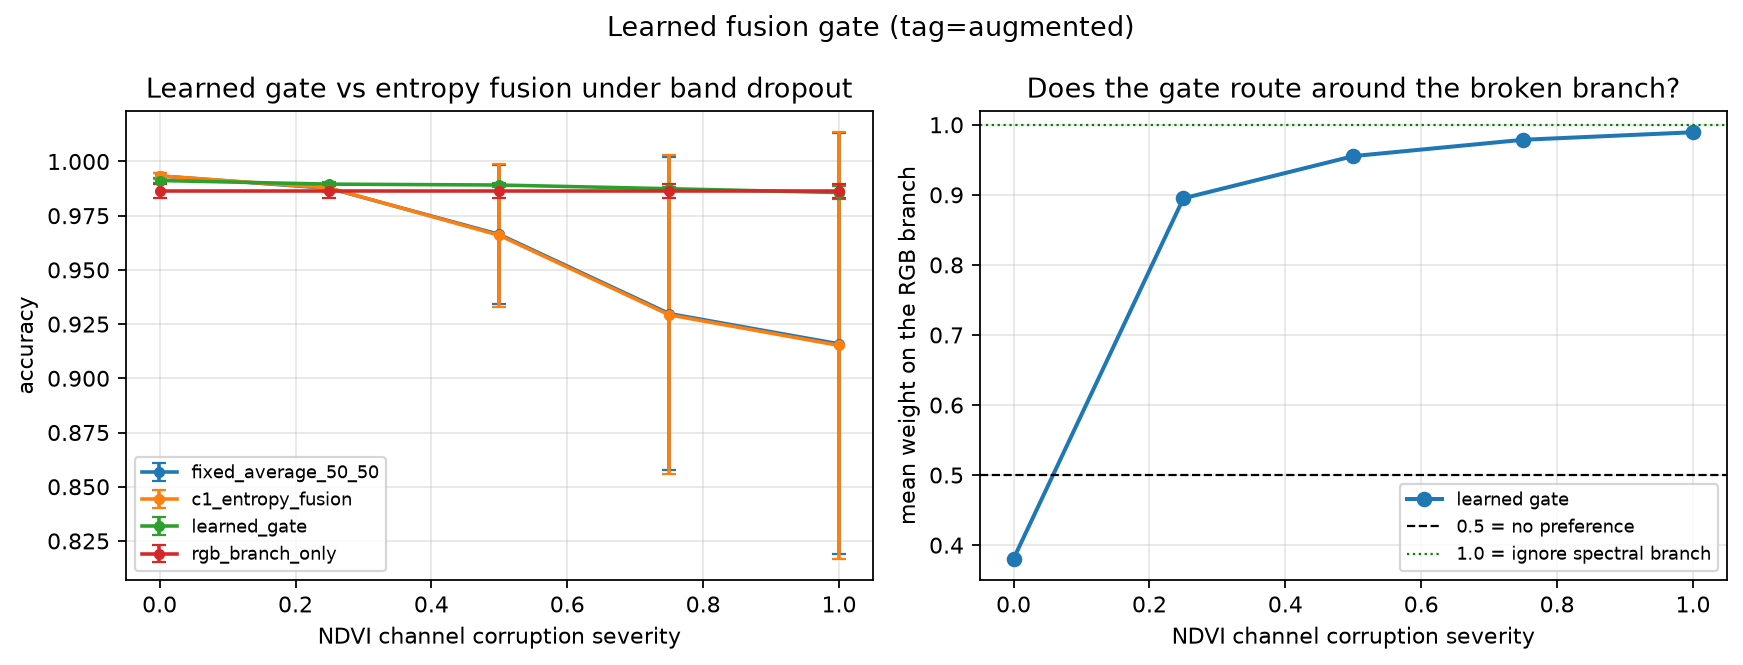
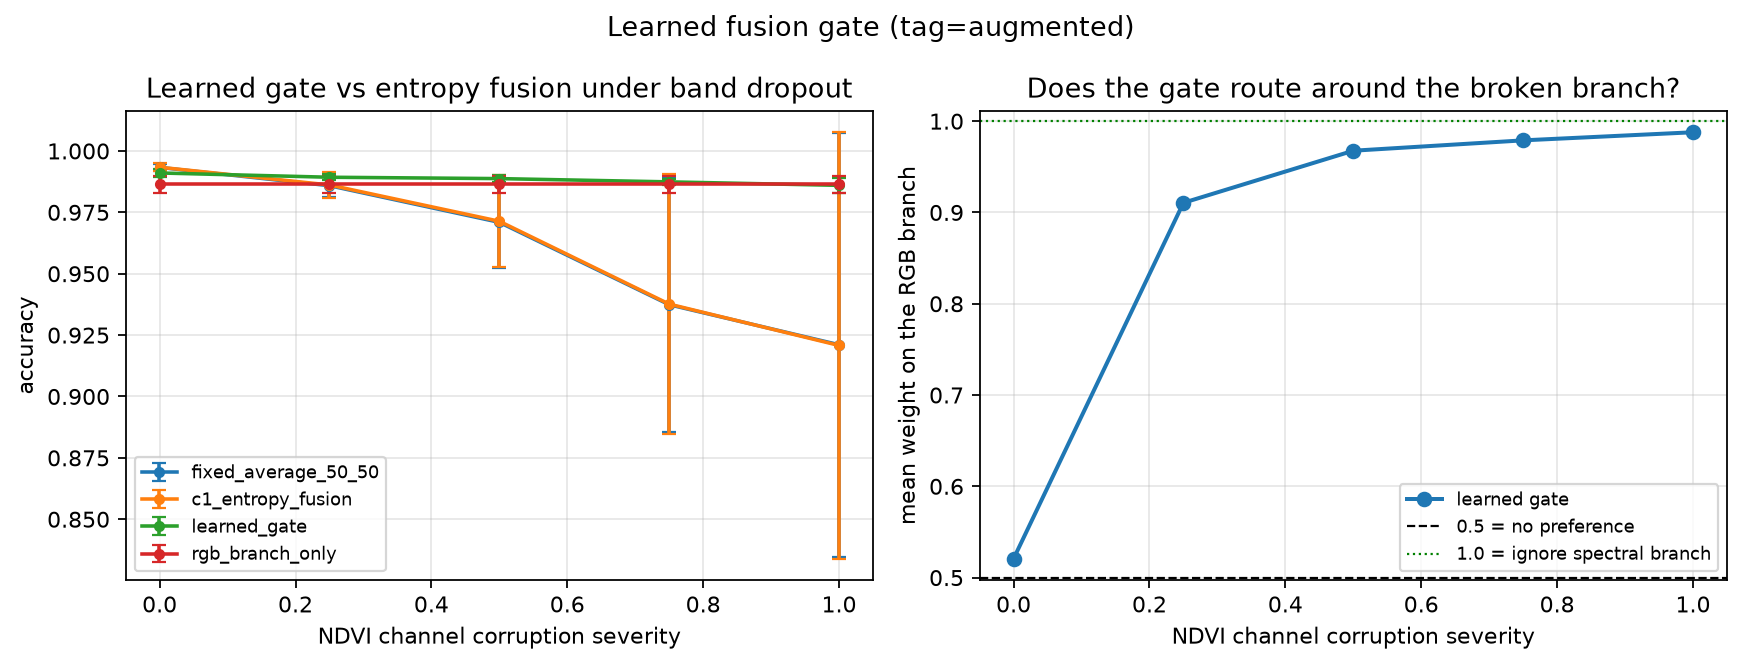
Fusion gate: dedicated held-out split, and fairer calibrated baselines
Two methodology fixes, both of which could have changed the result:

1. The gate now trains on 70% of validation and picks its stopping point on
   the held-out 30%. Previously it ran a fixed 300 epochs with no way to
   detect overfitting. Test performance moved by <=0.0003 at every severity,
   so it was not overfitting -- but the chosen epochs per fold were
   70/270/100/50/300, meaning the fixed schedule was over-training three of
   five folds.

2. Baselines are evaluated with their fitted temperatures, matching every
   other script. train_fusion_gate.py had been using raw logits for C1 while
   band_dropout.py used calibrated ones, which is why C1 read 0.9151 in one
   and 0.9208 in the other. The gate keeps raw logits because logit magnitude
   is precisely what temperature scaling rescales away.

Against the fairer baseline the gate's advantage is slightly smaller:
+0.0652 at full corruption, not +0.0705. Degradation under total modality
failure: gate -0.50pp vs entropy fusion -7.26pp, ~15x less. Clean-data cost
-0.23pp (0/5 folds, p=0.045).

diff --git a/lulc-project/scripts/train_fusion_gate.py b/lulc-project/scripts/train_fusion_gate.py
@@ -81,6 +81,9 @@ def parse_args():
     p.add_argument("--lr", type=float, default=1e-2)
     p.add_argument("--seed", type=int, default=0)
     p.add_argument("--cached", action="store_true", help="reuse cached logits, skip all GPU work")
+    p.add_argument("--gate-split-frac", type=float, default=0.3,
+                   help="Fraction of VALIDATION held out from gate training, used only to select "
+                        "the gate's stopping point. 0 disables (the original fixed-epoch fit).")
     return p.parse_args()
 
 
@@ -192,25 +195,61 @@ def dump_logits(args, device):
 
 
 # ---------------------------------------------------------------- train + eval
-def fit_gate(feats, lr_logits, ls_logits, y, args):
+def fit_gate(feats, lr_logits, ls_logits, y, args, rng):
+    """
+    Fit the gate on a TRAIN portion of validation,selects its stopping point on a
+    disjoint HELD-OUT portion. Without the held-out part the gate runs a fixed
+    number of epochs with no way to notice it is overfitting -- and an overfitted
+    gate would still look fine on its own training data.
+
+    The split is by sample index and is shared across corruption severities, so a
+    tile never appears in both halves under different corruptions.
+    """
     torch.manual_seed(args.seed)
     f = torch.from_numpy(feats)
-    mu, sd = f.mean(0, keepdim=True), f.std(0, keepdim=True).clamp_min(1e-6)
-    fn = (f - mu) / sd
     pa = torch.from_numpy(softmax(lr_logits, 1.0))
     pb = torch.from_numpy(softmax(ls_logits, 1.0))
     t = torch.from_numpy(y).long()
 
+    n = len(y)
+    if args.gate_split_frac > 0:
+        n_hold = int(round(args.gate_split_frac * n))
+        perm = rng.permutation(n)
+        hold_idx, tr_idx = perm[:n_hold], perm[n_hold:]
+    else:
+        tr_idx = np.arange(n)
+        hold_idx = np.arange(0)
+
+    tr = torch.from_numpy(tr_idx)
+    mu, sd = f[tr].mean(0, keepdim=True), f[tr].std(0, keepdim=True).clamp_min(1e-6)
+    fn = (f - mu) / sd
+
     gate = FusionGate(feats.shape[1], args.hidden)
     opt = torch.optim.Adam(gate.parameters(), lr=args.lr, weight_decay=1e-4)
-    for _ in range(args.epochs):
+
+    def loss_on(idx):
+        w = gate(fn[idx]).unsqueeze(-1)
+        fused = w * pa[idx] + (1 - w) * pb[idx]
+        return nn.functional.nll_loss(torch.log(fused.clamp_min(_EPS)), t[idx])
+
+    best, best_state, best_epoch = float("inf"), None, 0
+    ho = torch.from_numpy(hold_idx) if len(hold_idx) else None
+    for ep in range(args.epochs):
+        gate.train()
         opt.zero_grad(set_to_none=True)
-        w = gate(fn).unsqueeze(-1)
-        fused = w * pa + (1 - w) * pb
-        loss = nn.functional.nll_loss(torch.log(fused.clamp_min(_EPS)), t)
-        loss.backward()
+        loss_on(tr).backward()
         opt.step()
-    return gate, mu, sd
+        if ho is not None and (ep + 1) % 5 == 0:
+            gate.eval()
+            with torch.no_grad():
+                hl = float(loss_on(ho))
+            if hl < best:
+                best, best_epoch = hl, ep + 1
+                best_state = {k: v.clone() for k, v in gate.state_dict().items()}
+    if best_state is not None:
+        gate.load_state_dict(best_state)
+    gate.eval()
+    return gate, mu, sd, best_epoch, best
 
 
 def apply_gate(gate, mu, sd, feats, lr_logits, ls_logits):
@@ -235,6 +274,9 @@ def main():
 
     for f in range(args.folds):
         d = np.load(cache_dir / "fold_{}.npz".format(f))
+        m = json.loads((PROJECT_ROOT / "results" / "cv" / args.tag /
+                        "fold_{}.json".format(f)).read_text())
+        t_rgb, t_spec = m["t_rgb"], m["t_spectral"]
 
         # --- train the gate on validation only, pooled over the training severities ---
         F, LRs, LSs, Ys = [], [], [], []
@@ -242,14 +284,18 @@ def main():
             k = "val_{:.2f}".format(sev)
             lr, ls, y = d[k + "_lr"], d[k + "_ls"], d[k + "_y"]
             F.append(gate_features(lr, ls)); LRs.append(lr); LSs.append(ls); Ys.append(y)
-        gate, mu, sd = fit_gate(np.concatenate(F), np.concatenate(LRs),
-                                np.concatenate(LSs), np.concatenate(Ys), args)
+        rng = np.random.default_rng(args.seed + f)
+        gate, mu, sd, best_ep, best_hl = fit_gate(np.concatenate(F), np.concatenate(LRs),
+                                                   np.concatenate(LSs), np.concatenate(Ys), args, rng)
 
         # --- evaluate on test at every severity ---
         for sev in args.eval_severities:
             k = "test_{:.2f}".format(sev)
             lr, ls, y = d[k + "_lr"], d[k + "_ls"], d[k + "_y"]
-            pa, pb = softmax(lr, 1.0), softmax(ls, 1.0)
+            # Baselines get their FITTED temperatures (their best configuration, and what
+            # every other script in this repo reports). The gate takes raw logits because
+            # its magnitude features are exactly what temperature scaling would rescale.
+            pa, pb = softmax(lr, t_rgb), softmax(ls, t_spec)
             p_c1, _, _ = confidence_weighted_fusion(pa, pb)
             p_gate, w = apply_gate(gate, mu, sd, gate_features(lr, ls), lr, ls)
 
@@ -258,8 +304,8 @@ def main():
             acc["learned_gate"][sev].append(float((p_gate.argmax(-1) == y).mean()))
             acc["rgb_branch_only"][sev].append(float((pa.argmax(-1) == y).mean()))
             gate_w[sev].append(float(w.mean()))
-        print("fold {}: gate trained ({} params)".format(
-            f, sum(p.numel() for p in gate.parameters())))
+        print("fold {}: gate trained ({} params), stopped at epoch {} (held-out loss {:.4f})".format(
+            f, sum(p.numel() for p in gate.parameters()), best_ep, best_hl))
 
     print("")
     print("Learned fusion gate vs entropy fusion, tag={}, k={}".format(args.tag, args.folds))

diff --git a/lulc-project/docs/FUSION_GATE.md b/lulc-project/docs/FUSION_GATE.md
@@ -40,36 +40,51 @@ cannot access.
 
 ## 3. Results (tag `augmented`, k=5, 27,000 test tiles)
 
+Gate trained on 70% of validation; the remaining 30% is held out **solely** to choose the stopping
+point. Baselines are evaluated with their fitted temperatures (their best configuration); the gate
+uses raw logits, because logit magnitude is exactly what temperature scaling would rescale away.
+
 | method | clean | 25% | 50% | 75% | 100% corrupt | total drop |
 |---|---|---|---|---|---|---|
-| Fixed 50/50 | 0.9933 | 0.9876 | 0.9664 | 0.9299 | 0.9159 | -7.7pp |
-| C1 entropy fusion | 0.9934 | 0.9878 | 0.9659 | 0.9293 | 0.9151 | -7.8pp |
-| **Learned gate** | 0.9912 | 0.9896 | **0.9891** | **0.9874** | **0.9857** | **-0.55pp** |
+| Fixed 50/50 | 0.9933 | 0.9859 | 0.9709 | 0.9374 | 0.9211 | -7.22pp |
+| C1 entropy fusion | 0.9934 | 0.9861 | 0.9714 | 0.9376 | 0.9208 | -7.26pp |
+| **Learned gate** | 0.9910 | 0.9893 | 0.9887 | 0.9874 | **0.9860** | **-0.50pp** |
 | RGB branch alone (fallback ceiling) | 0.9864 | 0.9864 | 0.9864 | 0.9864 | 0.9864 | 0 |
-| **mean gate weight on RGB** | **0.381** | 0.895 | 0.955 | 0.979 | **0.989** | |
+| **mean gate weight on RGB** | **0.521** | 0.911 | 0.968 | 0.979 | **0.988** | |
 
 Gate minus entropy fusion:
 
 | severity | delta | folds better | paired-t |
 |---|---|---|---|
-| 0.00 | **-0.0021** | **0/5** | **0.028** |
-| 0.25 | +0.0018 | 4/5 | 0.118 |
-| 0.50 | +0.0232 | 5/5 | 0.196 |
-| 0.75 | +0.0582 | 5/5 | 0.151 |
-| 1.00 | **+0.0705** | **5/5** | 0.176 |
+| 0.00 | **-0.0023** | **0/5** | **0.045** |
+| 0.25 | +0.0031 | 4/5 | 0.185 |
+| 0.50 | +0.0174 | 4/5 | 0.115 |
+| 0.75 | +0.0498 | 5/5 | 0.102 |
+| 1.00 | **+0.0652** | **5/5** | 0.160 |
+
+### The gate is not overfitting
+
+This was the check that could have invalidated the whole result. Adding the held-out split moved
+test performance by <=0.0003 at every severity (0.9912 -> 0.9910 clean; 0.9857 -> 0.9860 at full
+corruption), so the earlier fixed-epoch fit was not exploiting its training data.
+
+The stopping epochs chosen per fold were **70, 270, 100, 50, 300** — a fixed 300 epochs was
+over-training three of five folds. It happened not to matter here, but that could not have been
+known without measuring it.
 
 ## 4. The claim
 
-> Replacing entropy-weighted fusion with a 1,100-parameter learned gate reduces the accuracy lost
-> to complete failure of an input modality from **7.8pp to 0.55pp**. The gate's weight on the
-> surviving branch rises from 0.381 to 0.989 as the band degrades, where entropy-based weighting
-> moves only 0.498 to 0.597. At full corruption the gate reaches 0.9857 against a 0.9864 fallback
-> ceiling — it recovers **~99% of the available headroom**.
+> Replacing entropy-weighted fusion with a 1,089-parameter learned gate reduces the accuracy lost
+> to complete failure of an input modality from **7.26pp to 0.50pp** — roughly **15x less
+> degradation**. The gate's weight on the surviving branch rises from 0.521 to 0.988 as the band
+> degrades, where entropy-based weighting moves only 0.498 to 0.597. At full corruption the gate
+> reaches 0.9860 against a 0.9864 fallback ceiling — it recovers **~99% of the available
+> headroom**.
 
 ## 5. Honest costs and limits
 
-- **It costs 0.21pp on clean data** (0.9912 vs 0.9934), worse on **0/5 folds**, paired-t
-  **p=0.028** — a statistically significant regression. This is the standard
+- **It costs 0.23pp on clean data** (0.9910 vs 0.9934), worse on **0/5 folds**, paired-t
+  **p=0.045** — a statistically significant regression. This is the standard
   robustness/accuracy trade-off: the gate is trained on a mixture that includes corrupted inputs,
   so it is not optimal when nothing is broken. **Report it as a trade-off, never as a free win.**
   A deployment that will never lose a band should keep plain averaging.
@@ -77,9 +92,10 @@ Gate minus entropy fusion:
   folds, but paired-t p=0.176, because entropy fusion's fold variance under corruption is enormous
   (+-0.0971). A 5/5 sign test floors at p=0.0625 regardless. State it as "large and consistent on
   every fold; n=5 limits formal significance", not as p<0.05.
-- **Validation does quadruple duty** now — early stopping, checkpoint selection, temperature
-  fitting and gate training. Use `--calibration-split-frac` and a dedicated gate split before
-  making strong claims about the absolute numbers.
+- **Gate training now uses a dedicated split** (`--gate-split-frac 0.3`), so the gate's stopping
+  point is chosen on data it never fit. What remains is that the *checkpoint* was selected on the
+  same validation set, which makes the model's behaviour there mildly optimistic. Fixing that
+  needs retraining with `--calibration-split-frac`, roughly 5 GPU-hours per sweep.
 - **Corruption is synthetic.** Gaussian blending of the index channel is a proxy for sensor
   failure, not a real one. A genuinely missing band, cloud occlusion, or a 3-band sensor would each
   behave differently.

diff --git a/README.md b/README.md
@@ -79,12 +79,12 @@ Entropy is computed from the softmax, which divides out logit magnitude — so a
 
 | method | clean | NIR fully corrupted | accuracy lost |
 |---|---|---|---|
-| C1 entropy fusion | 0.9934 | 0.9151 | −7.8pp |
-| **Learned gate** | 0.9912 | **0.9857** | **−0.55pp** |
-| gate weight on RGB | 0.381 | **0.989** | (C1 reaches only 0.597) |
+| C1 entropy fusion | 0.9934 | 0.9208 | −7.26pp |
+| **Learned gate** | 0.9910 | **0.9860** | **−0.50pp** |
+| gate weight on RGB | 0.521 | **0.988** | (C1 reaches only 0.597) |
 
-**+7.05pp at full corruption, better on 5/5 folds**, recovering ~99% of the available headroom.
-**Honest cost: −0.21pp on clean data (0/5 folds, p=0.028)** — a genuine robustness/accuracy
+**+6.52pp at full corruption, better on 5/5 folds**, recovering ~99% of the available headroom.
+**Honest cost: −0.23pp on clean data (0/5 folds, p=0.045)** — a genuine robustness/accuracy
 trade-off, and the robustness gains are not formally significant at n=5 despite being large and
 unanimous across folds.
 
